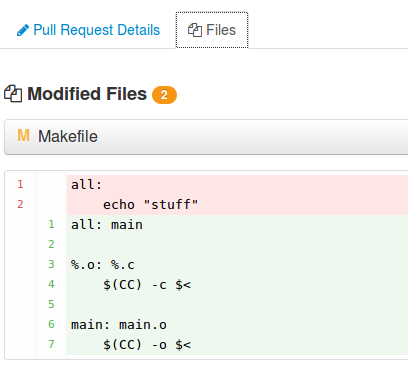
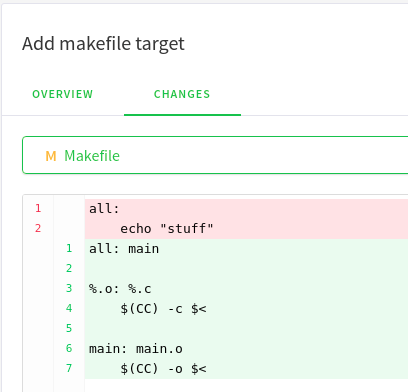
Update PR documentation (#118)
* Update pull request UI screenshots

* Add side-by-side diff screenshot

Also explain that comments on unchanged lines can only be added on the
right-hand side.

diff --git a/languages/en/user-guide/pullrequest.rst b/languages/en/user-guide/pullrequest.rst
@@ -169,6 +169,28 @@ integrated inside master.
 Alice can also merge "by hand" in her own working copy and then push to the repository,
 the end result will be the same.
 
+See side-by-side diff
+'''''''''''''''''''''
+
+In addition to the unified diff, you can also view changes as a side-by-side diff.
+Deleted lines will show up on the left-hand side, added lines will show up on the
+right-hand side.
+
+.. figure:: ../images/screenshots/pullrequest/pullrequest-side-by-side-diff-button.png
+    :align: center
+    :alt: Button to switch to side-by-side diff
+    :name: Button to switch to side-by-side diff
+
+.. attention::
+
+  Due to a technical limitation, adding comments on the left-hand side of unchanged lines
+  is currently not possible. You'll need to add comments on the rigt-hand side.
+
+  .. figure:: ../images/screenshots/pullrequest/pullrequest-side-by-side-diff.png
+      :align: center
+      :alt: Adding comments on side-by-side-diff
+      :name: Adding comments on side-by-side-diff
+
 Advanced workflows
 ~~~~~~~~~~~~~~~~~~
 
